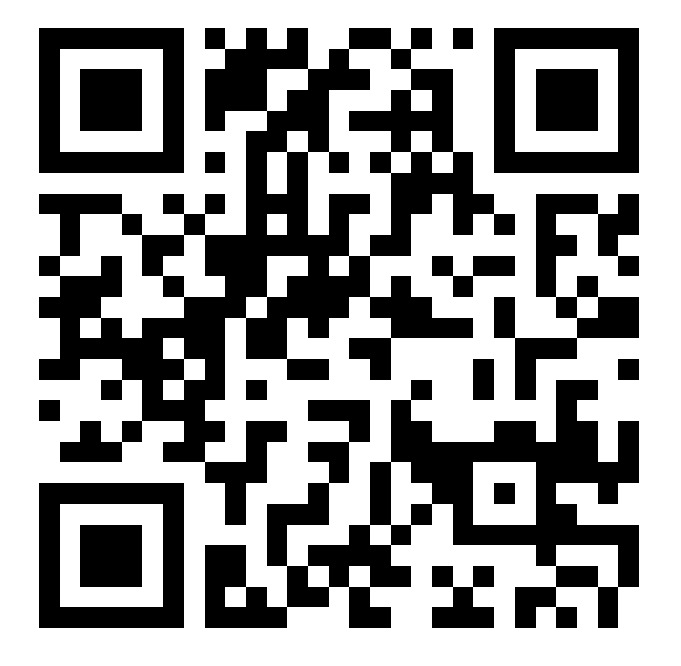
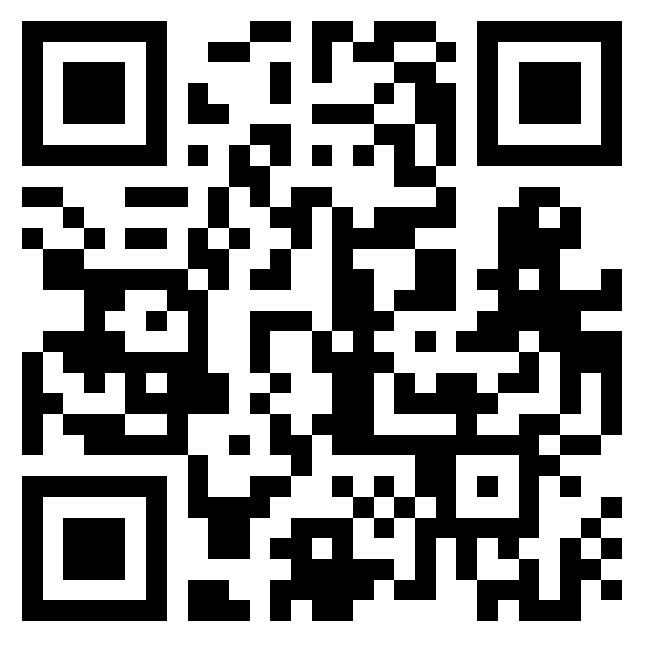
gesh

diff --git a/public/invoice.html b/public/invoice.html
@@ -344,7 +344,7 @@
                                         <strong style="font-size: 1.4rem; color: #36a3f5;">
                                             Awaiting <span id="the-other-one"></span> payment...
                                         </strong>
-                                        <input type="text" style=" color: black; font-size: 1.1rem; font-weight: 700; border-radius: 3px;border: 2px solid black;" class="form-control" value="12DK1av5bt1QZiAsxw7ck8arUG9nA9rhoV" onclick="this.select();">
+                                        <input type="text" style=" color: black; font-size: 1.1rem; font-weight: 700; border-radius: 3px;border: 2px solid black;" class="form-control" value="13MedMQC58Ff3kFrKgc6VC4VqchSMPzbG8" onclick="this.select();">
                                         <img src="images/download.jpeg" />
                                     </p>
                                 </div>
